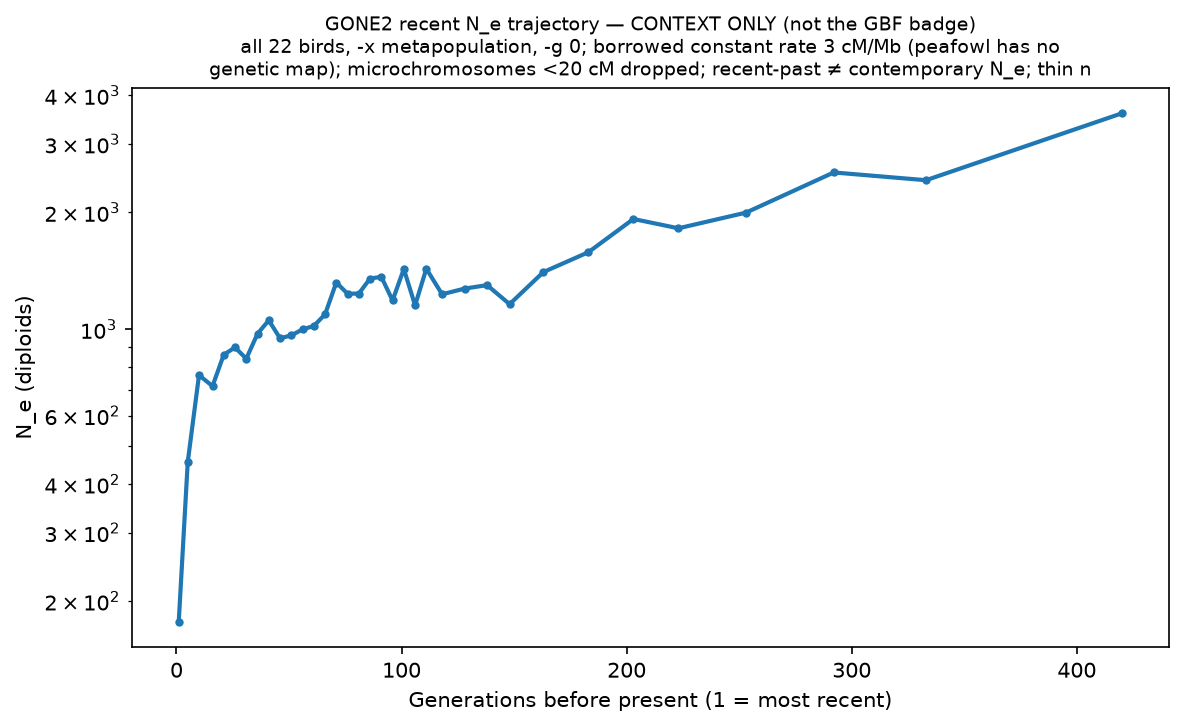
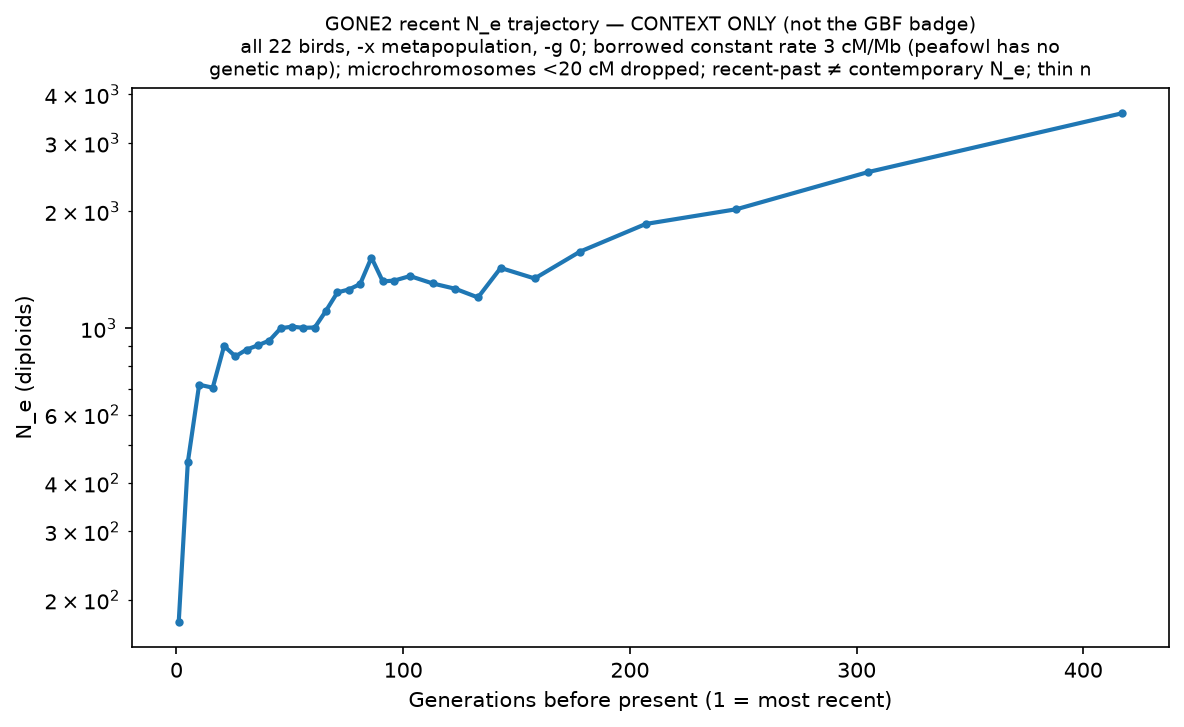
Make GONE2 and report rendering deterministic

diff --git a/report/report.html b/report/report.html
@@ -2494,7 +2494,7 @@ Figure 1: Peafowl population structure on the first two PCA axes, computed from
 <section id="peafowl-contemporary-n_e-and-the-fragility-of-the-gbf-verdict" class="level2" data-number="3.2">
 <h2 data-number="3.2" class="anchored" data-anchor-id="peafowl-contemporary-n_e-and-the-fragility-of-the-gbf-verdict"><span class="header-section-number">3.2</span> Peafowl: contemporary <span class="math inline">\(N_e\)</span> and the fragility of the GBF verdict</h2>
 <p><strong>No population confidently passes <span class="math inline">\(N_e &gt; 500\)</span> under any filtering preset</strong> (0/3 / 0/3 / 0/3 pass for lenient / standard / strict). Verdicts are <em>fail</em> (point and 90% CI below 500) or <em>indeterminate</em>. Under the lenient preset the cross-chromosome estimates are Yunnan 55 [20–152], Thailand 76 [18–320], and Vietnam 2,293 [139–37,795] — the lone point above 500, but with a CI straddling it, hence <em>indeterminate</em>, not a pass. Under stricter presets several per-population estimates fail to converge (extreme heterozygote excess at small <span class="math inline">\(n\)</span>), so convergence itself is preset-fragile (Table: <code>results/tables/gbf_robustness.tsv</code>). Pooling across populations (structure ignored) trends low and rises with stringency (52 → 89 → 108), below most per-population estimates — the predicted Wahlund direction, muddied by small-<span class="math inline">\(n\)</span> noise.</p>
-<p>The result is therefore two-sided: the <strong>headline is robust</strong> (0/3 pass regardless of preset), while the <strong>underlying estimates are fragile</strong> (2/3 populations change verdict across presets; Vietnam is estimable under lenient but not under stricter filters). The GONE2 context trajectory shows a recent decline (approximately 3,596 → 177 over ~419 generations), consistent with an endangered species but presented as context only.</p>
+<p>The result is therefore two-sided: the <strong>headline is robust</strong> (0/3 pass regardless of preset), while the <strong>underlying estimates are fragile</strong> (2/3 populations change verdict across presets; Vietnam is estimable under lenient but not under stricter filters). The GONE2 context trajectory shows a recent decline (approximately 3,577 → 176 over ~416 generations), consistent with an endangered species but presented as context only.</p>
 <div id="fig-ne-cube" class="quarto-float quarto-figure quarto-figure-center anchored" alt="Point and interval plot of currentNe2 estimates across filters and structure treatments, with a threshold at 500.">
 <figure class="quarto-float quarto-float-fig figure">
 <div aria-describedby="fig-ne-cube-caption-0ceaefa1-69ba-4598-a22c-09a6ac19f8ca">
